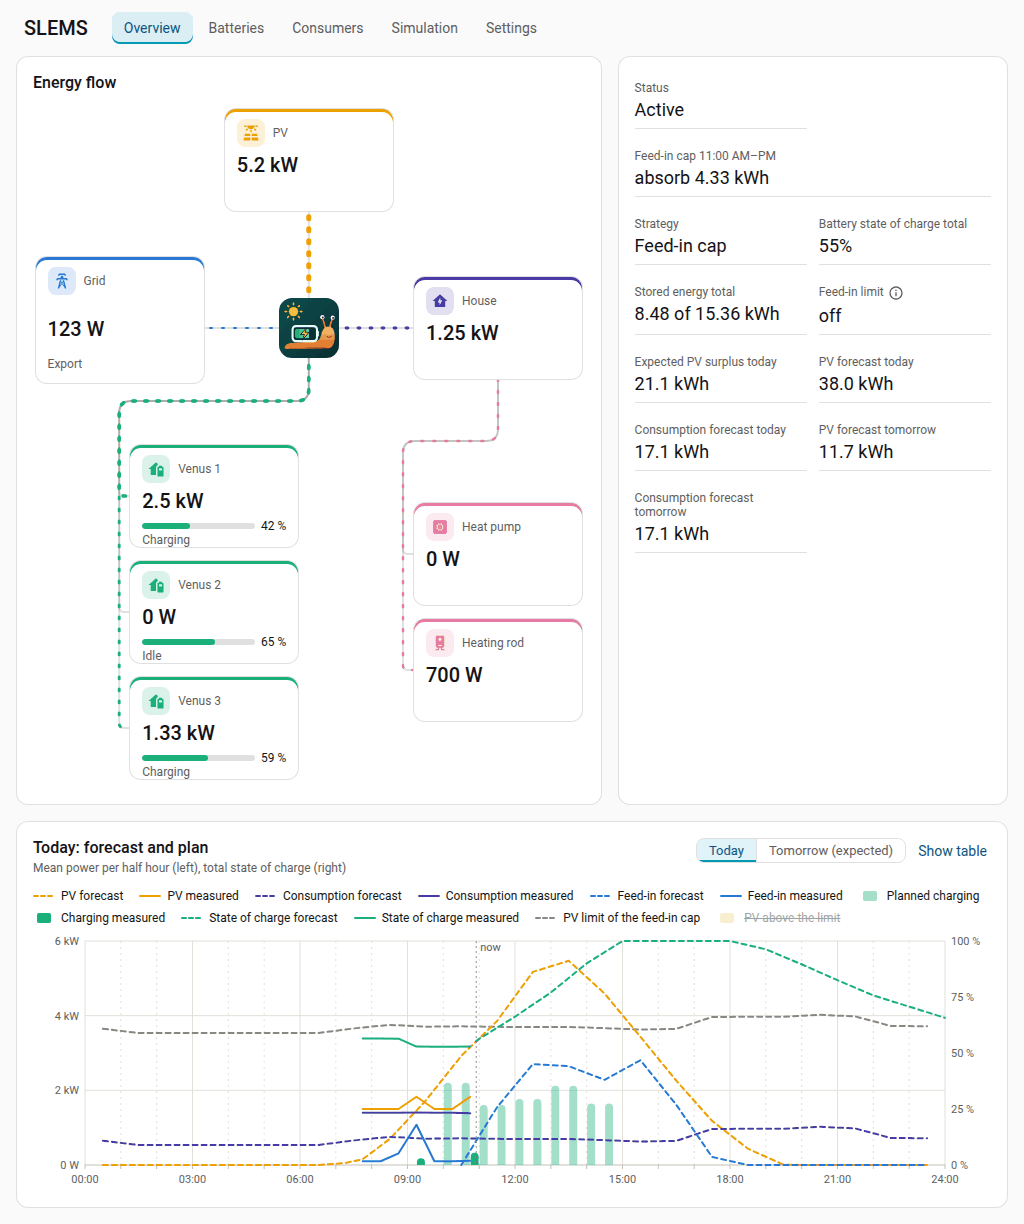
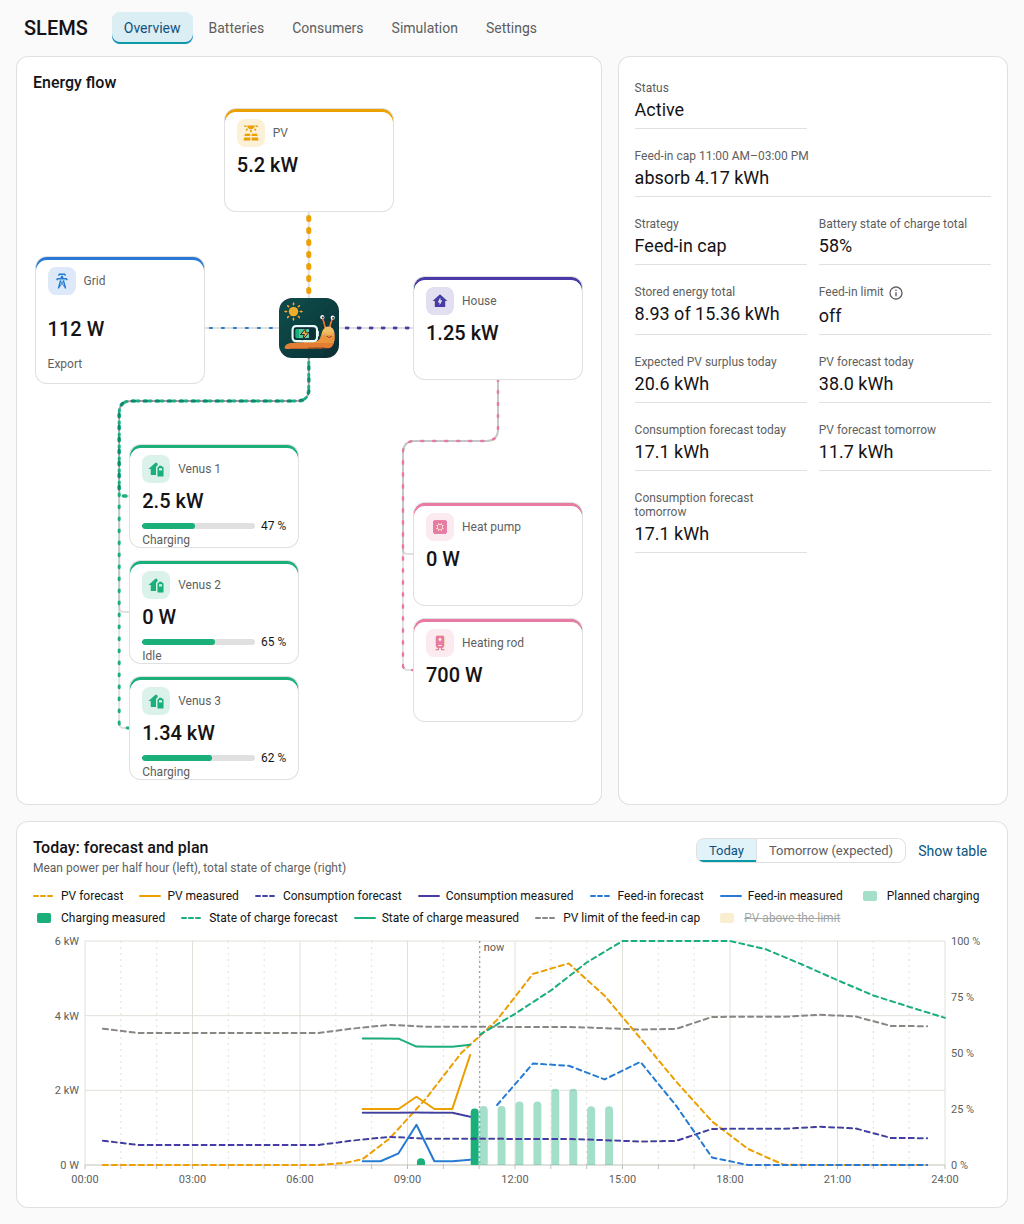
Feed-in cap tile: end of the time range shown in full also with 12 hour clocks; German inverter state standby is "Standby"; English screenshots with English number format

diff --git a/custom_components/slems/frontend/slems-panel.js b/custom_components/slems/frontend/slems-panel.js
@@ -1082,14 +1082,19 @@ class SlemsPanel extends HTMLElement {
     return [...(a.problems || []), ...(a.limit_exceeded ? ["limit_exceeded"] : [])];
   }
 
+  /** Time of day of an ISO timestamp. */
+  _time(iso) {
+    if (!iso) return "–";
+    return new Date(iso).toLocaleTimeString(this._hass?.locale?.language, { hour: "2-digit", minute: "2-digit" });
+  }
+
   /** Time of an ISO timestamp; with the weekday when it is not today. */
   _clock(iso) {
     if (!iso) return "–";
     const date = new Date(iso);
-    const language = this._hass?.locale?.language;
-    const time = date.toLocaleTimeString(language, { hour: "2-digit", minute: "2-digit" });
+    const time = this._time(iso);
     if (date.toDateString() === new Date().toDateString()) return time;
-    return `${date.toLocaleDateString(language, { weekday: "short" })} ${time}`;
+    return `${date.toLocaleDateString(this._hass?.locale?.language, { weekday: "short" })} ${time}`;
   }
 
   /** Overview tile of the feed-in cap: energy to absorb and export before the peak. */
@@ -1103,7 +1108,7 @@ class SlemsPanel extends HTMLElement {
     if (!a.peak_start) {
       value = t.capNoPeak.replace("{limit}", this._watts(a.limit_w));
     } else {
-      label += ` ${this._clock(a.peak_start)}–${this._clock(a.peak_end).split(" ").pop()}`;
+      label += ` ${this._clock(a.peak_start)}–${this._time(a.peak_end)}`;
       const parts = [t.capAbsorb.replace("{absorb}", this._kwh((this._number(energy) || 0) * 1000))];
       if (a.export_needed_kwh >= 0.05) {
         parts.push(
